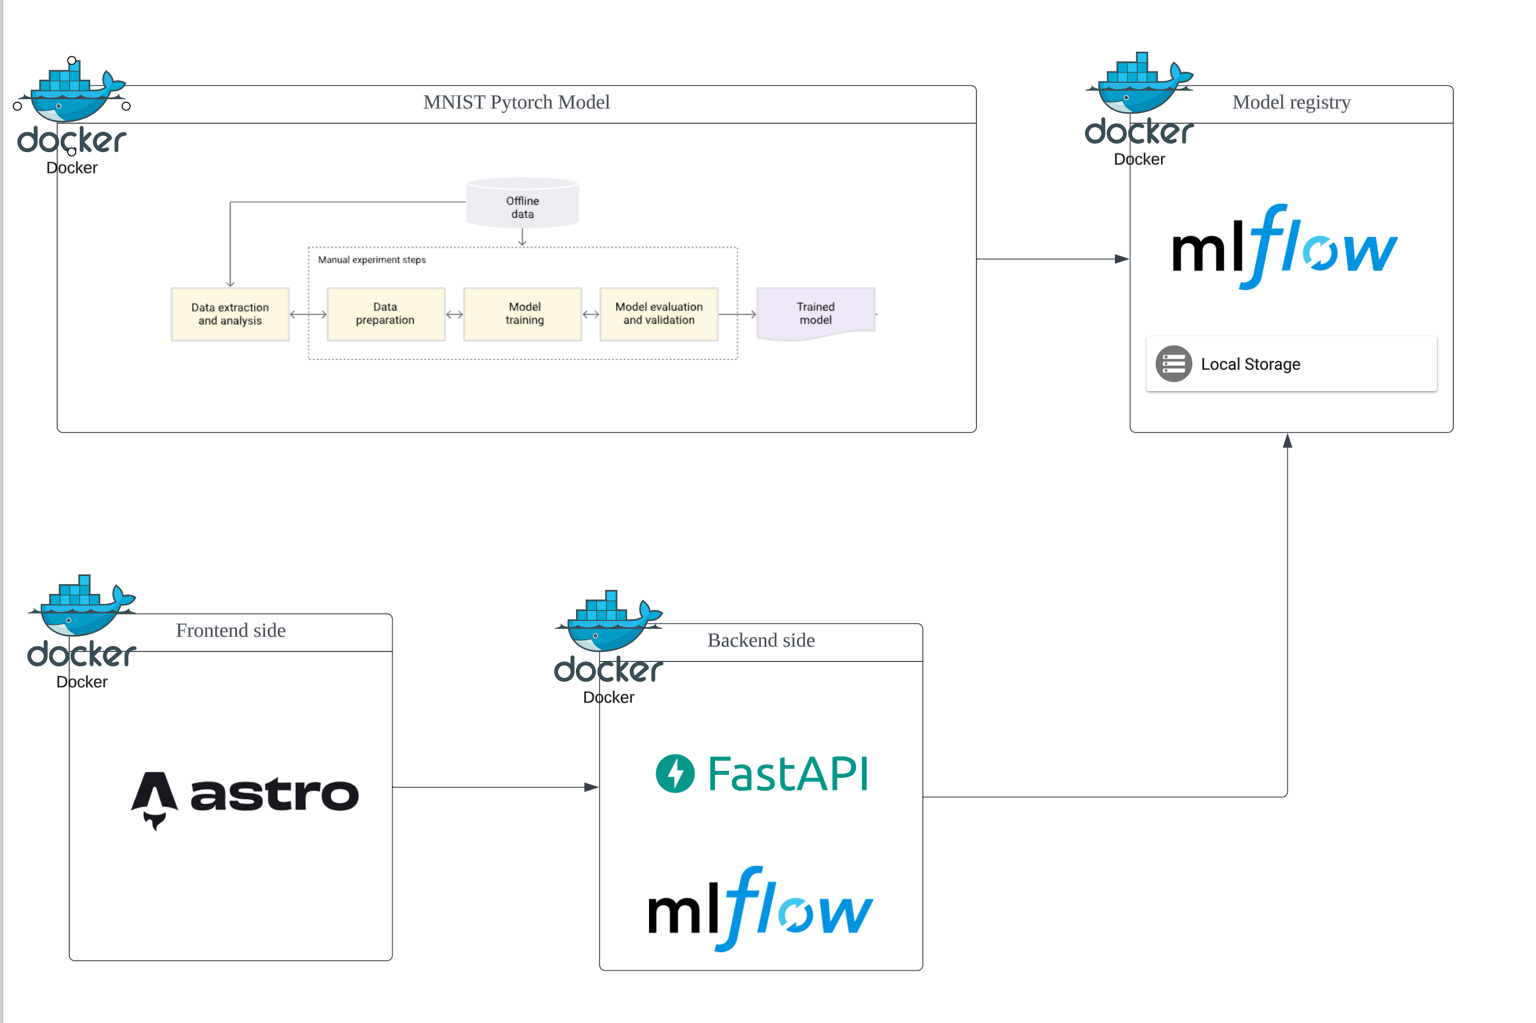
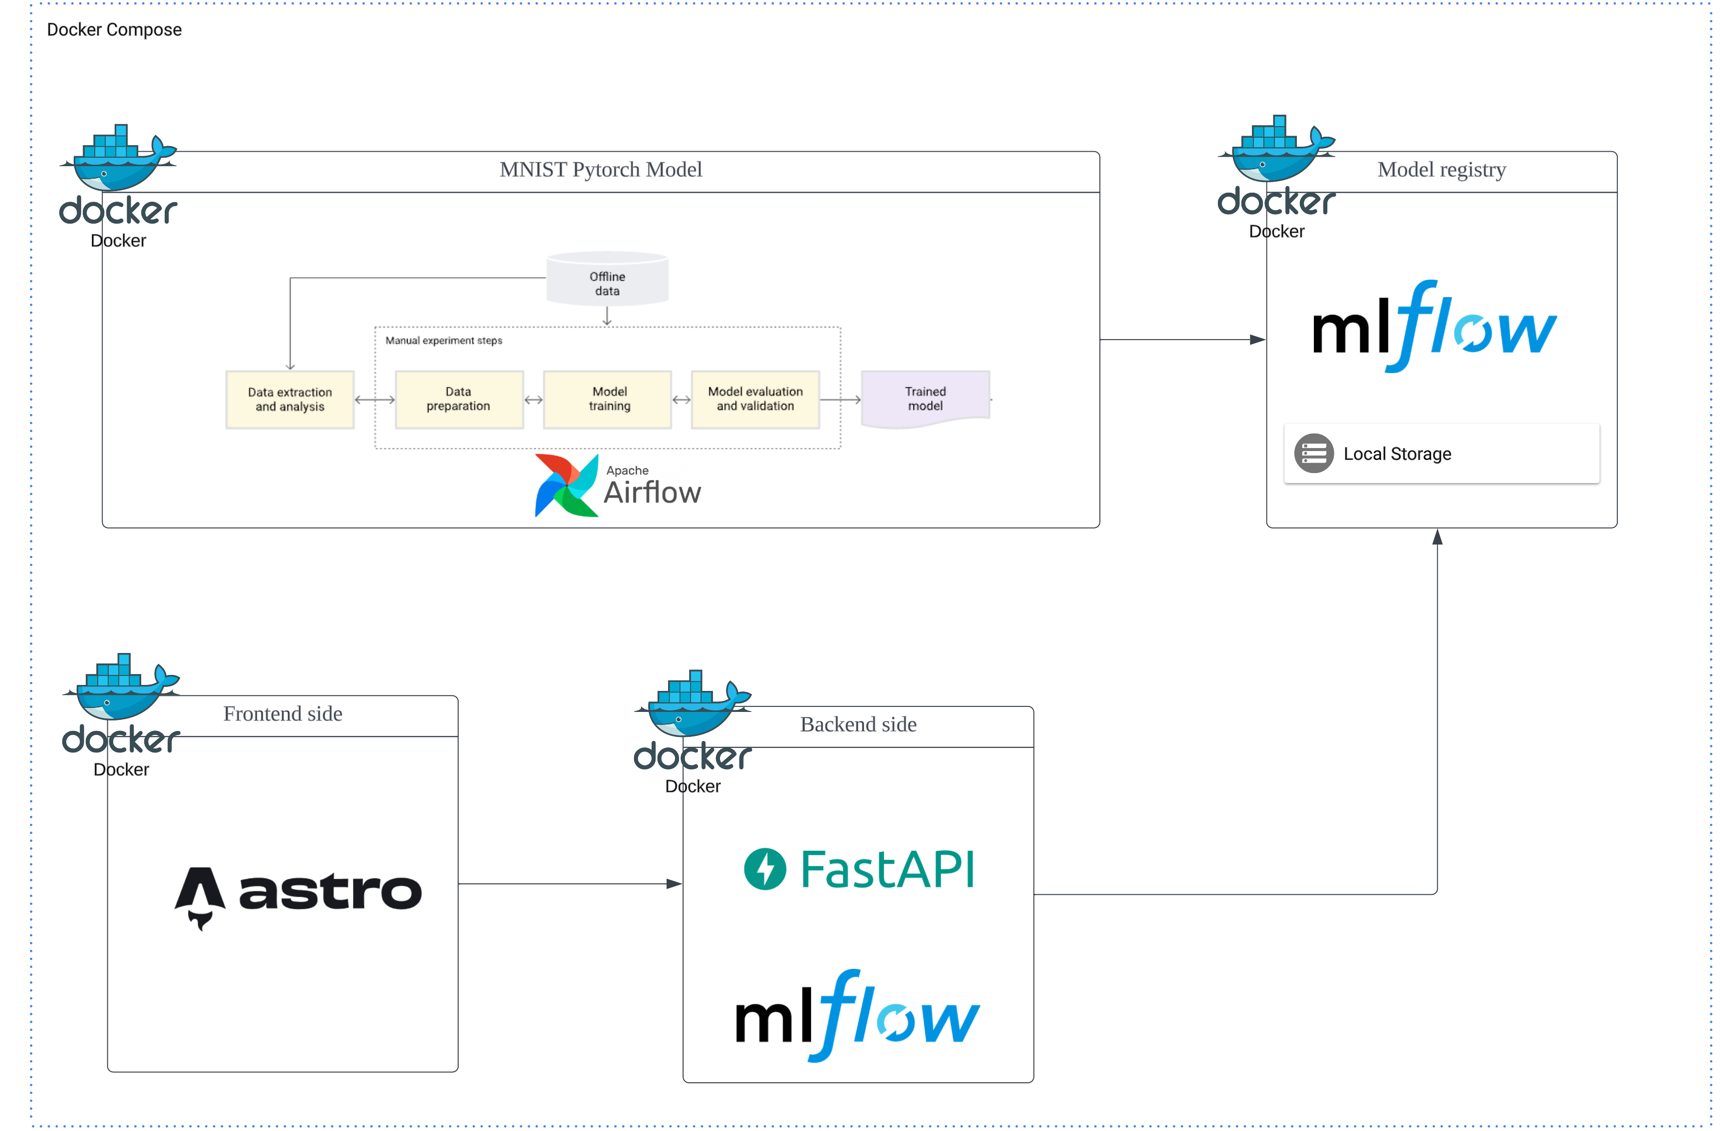
feat: docs

diff --git a/README.md b/README.md
@@ -7,19 +7,16 @@
                                 
 
 ## Quick Start
-                            
-### Pyenv setup(local environment)
-- [Pyenv installation guide documentation](https://github.com/pyenv/pyenv#installation)
 
-```bash
-$ pyenv install 3.11.5
-$ pyenv virtualenv 3.11.5 MNIST-operation-pipeline
-$ pyenv local MNIST-operation-pipeline  
-```
 
-### Run All system
+> For documentation on setting up and running Docker Compose, see [Airflow Docs](https://airflow.apache.org/docs/apache-airflow/stable/howto/docker-compose/index.html).
+
+## Run Docker
 ```bash
-docker compose up # flags are up to you.
+# Make sure to initialize Docker settings based on the above airflow documentation
+docker compose build
+docker compose airflow-init
+docker compose up
 ```
 
 
@@ -31,7 +28,10 @@ docker compose up # flags are up to you.
 
 ## The points you should know
 
-- At first, when you run the project, it retries for 1200 seconds until a model is created in the backend because there is no registered model (I want to minimize the work), so at first you have to wait without any logs until the MNIST model is trained and saved in mlflow. (You can refer to app.py on the backend)
+- At first, when you run the project, it retries for 1200 seconds until a model is created in the backend because there is no registered model (I want to minimize the work)
+- So once airflow is running, connect to webserver (localhost:8080) and start the pipeline if it hasn't already been started. 
+- Once the ML model is trained by the pipeline automation, it should work fine and run the 
+  - You can check the automated MNIST application through FE (localhost:4321).
 
 
 ## MNIST datasets
